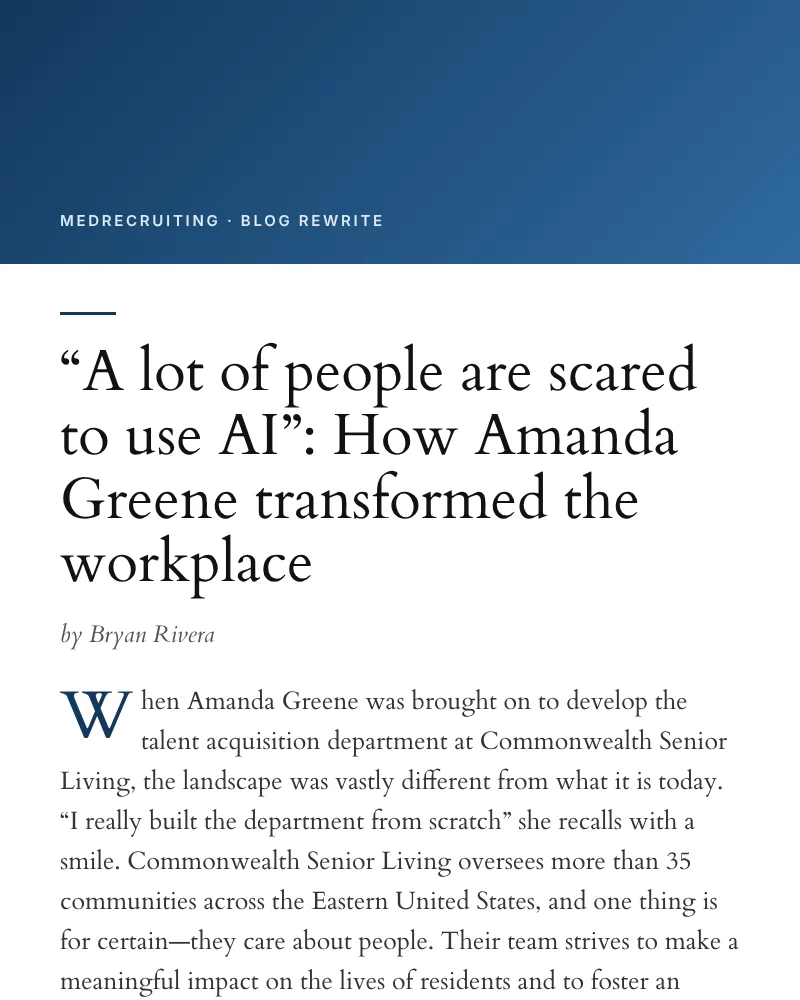
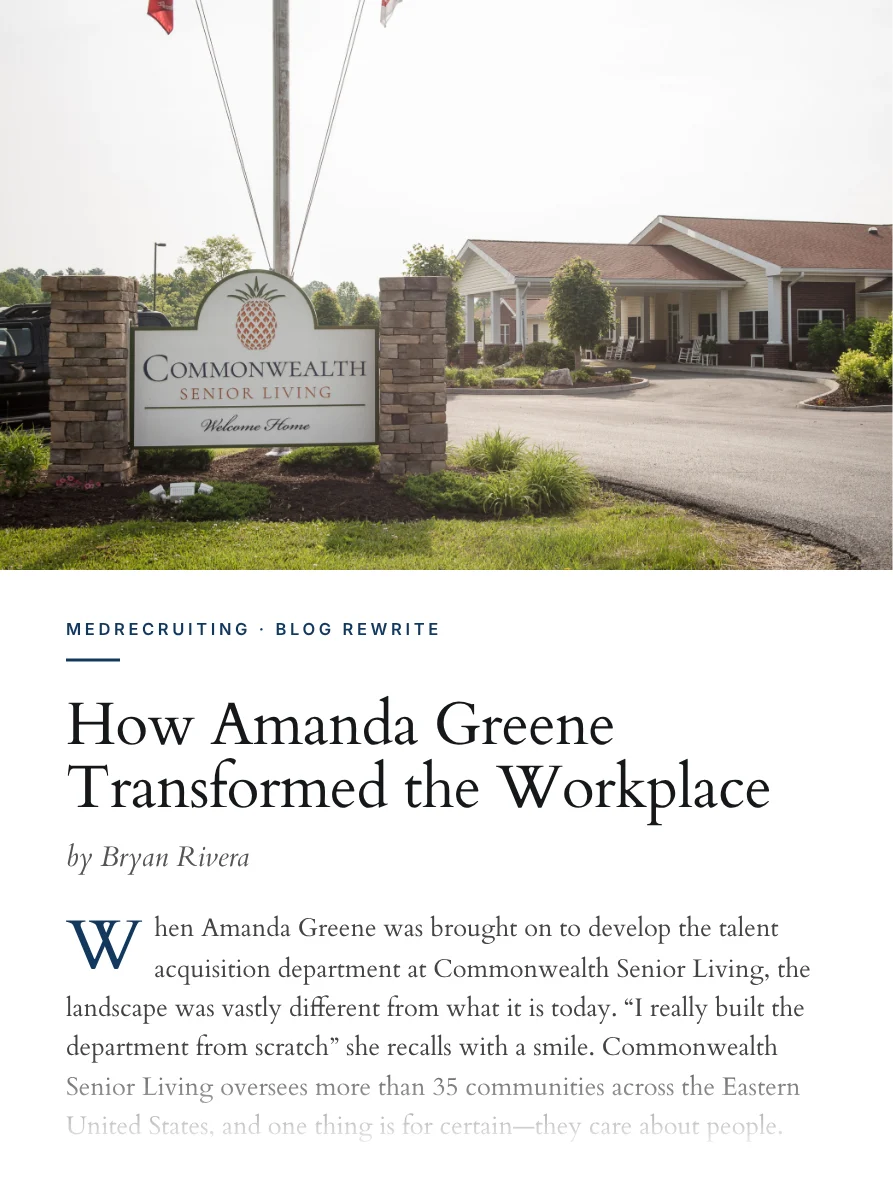
MedRecruiting card: shorter title and photo cover matching the other articles
Claude-Session: https://claude.ai/code/session_01HwViuiWex7zkheWP3UABUj

diff --git a/index.html b/index.html
@@ -10,7 +10,7 @@
   <link rel="preconnect" href="https://fonts.gstatic.com" crossorigin>
   <link href="https://fonts.googleapis.com/css2?family=Albert+Sans:wght@400;600&family=Cardo:ital,wght@0,400;0,700;1,400&family=Inter:wght@300;400;500;600;700&family=Newsreader:opsz,wght@6..72,400;6..72,500;6..72,600&display=swap" rel="stylesheet">
   <link rel="stylesheet" href="assets/css/style.css?v=62">
-  <link rel="stylesheet" href="assets/css/home.css?v=71">
+  <link rel="stylesheet" href="assets/css/home.css?v=72">
   <link rel="stylesheet" href="assets/css/mobile.css?v=6" media="(max-width: 820px)">
 </head>
 <body class="home" id="top">
@@ -636,9 +636,9 @@
           </a>
           <div class="article">
             <a class="a-main" href="assets/docs/articles/medrecruiting-amanda-greene.pdf" target="_blank" rel="noopener">
-              <img src="assets/img/article-medrecruiting-amanda-greene.webp" alt="Cover for “A lot of people are scared to use AI”: How Amanda Greene transformed the workplace, Bryan Rivera’s blog rewrite for MedRecruiting" loading="lazy">
+              <img src="assets/img/article-medrecruiting-amanda-greene.webp" alt="Cover for “How Amanda Greene Transformed the Workplace,” Bryan Rivera’s blog rewrite for MedRecruiting: the entrance sign at a Commonwealth Senior Living community" loading="lazy">
               <span class="a-meta">MedRecruiting · Blog rewrite</span>
-              <span class="a-title">“A lot of people are scared to use AI”: How Amanda Greene transformed the workplace</span>
+              <span class="a-title">How Amanda Greene Transformed the Workplace</span>
               <span class="a-read">Read my version (PDF) ↗</span>
             </a>
             <a class="a-alt" href="https://medrecruiting.com/transforming-senior-living-recruitment" target="_blank" rel="noopener">See the live post ↗</a>

diff --git a/extras.html b/extras.html
@@ -11,7 +11,7 @@
   <link rel="preconnect" href="https://fonts.gstatic.com" crossorigin>
   <link href="https://fonts.googleapis.com/css2?family=Albert+Sans:wght@400;600&family=Cardo:ital,wght@0,400;0,700;1,400&family=Inter:wght@300;400;500;600;700&family=Newsreader:opsz,wght@6..72,400;6..72,500;6..72,600&display=swap" rel="stylesheet">
   <link rel="stylesheet" href="assets/css/style.css?v=62">
-  <link rel="stylesheet" href="assets/css/home.css?v=71">
+  <link rel="stylesheet" href="assets/css/home.css?v=72">
   <link rel="stylesheet" href="assets/css/mobile.css?v=6" media="(max-width: 820px)">
 </head>
 <body class="home" id="top">

diff --git a/CLAUDE.md b/CLAUDE.md
@@ -48,3 +48,4 @@
 - MedRecruiting rewrite: Bryan was paid to rewrite medrecruiting.com/transforming-senior-living-recruitment ("A lot of people are scared to use AI": How Amanda Greene transformed the workplace); MedRecruiting never published it. It's the 8th Publications card, labeled "MedRecruiting · Blog rewrite", linking to his verbatim PDF (`assets/docs/articles/medrecruiting-amanda-greene.pdf`, byline date kept at his request) plus "See the live post" to the current (not his) page. Still no MedRecruiting client section.
 - Publications now: Menswear ×2, LinkedIn "The Healthcare Workforce Crisis", Truth and Lies, Turtles, Feeling of Awe, LinkedIn "This Toll Road Will Cost You More Than Money", MedRecruiting rewrite. "The Mind of God" and "Beholding" were replaced (Bryan: too religious) and moved to Extras. LinkedIn covers built from his LinkedIn PDF exports (hero photo + verbatim opening). linkedin.com blocks automated access (bot check), so ask Bryan for PDF exports.
 - **Extras archive (`extras.html`, noindex)**: Bryan's private record of everything cut from the main page. Linked only by a faint "extras" link in the closing quote band. When cutting work, MOVE it here (don't delete). Contains: Gender vs. Sex, Mind of God, Beholding; Kettering per-ad results table, cut FB ads (patient access, coding auditor A/B), Veterans (11 variations), Bengals (5), re-hire email; Creation Sabbath Venus post; old Editorials and Narrative pages. Recovered images live in `assets/img/extras/`.
+- Amanda Greene card: short title "How Amanda Greene Transformed the Workplace" (Bryan asked); his full headline stays in the PDF. Cover photo = the live MedRecruiting post's hero (Commonwealth Senior Living sign).
